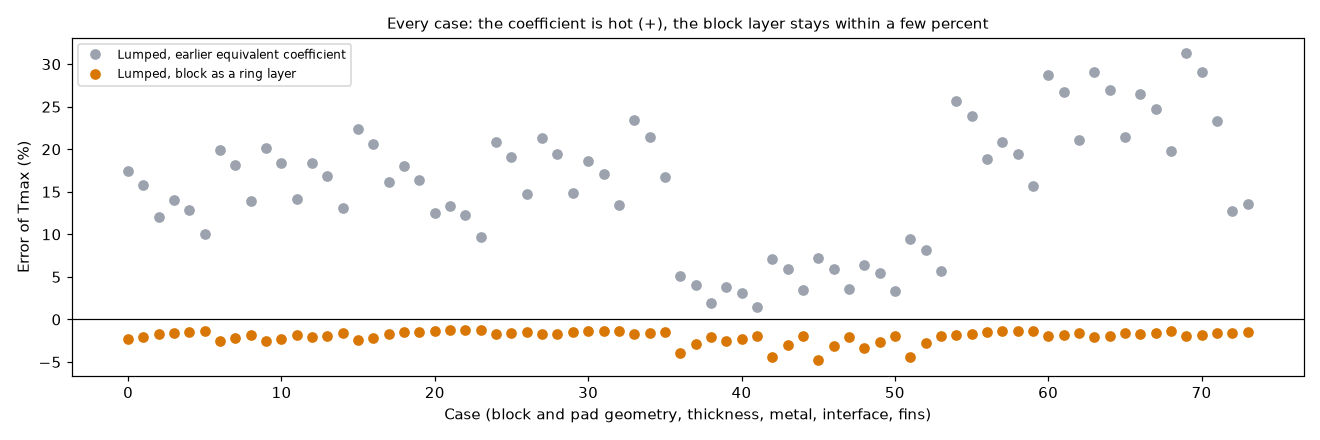
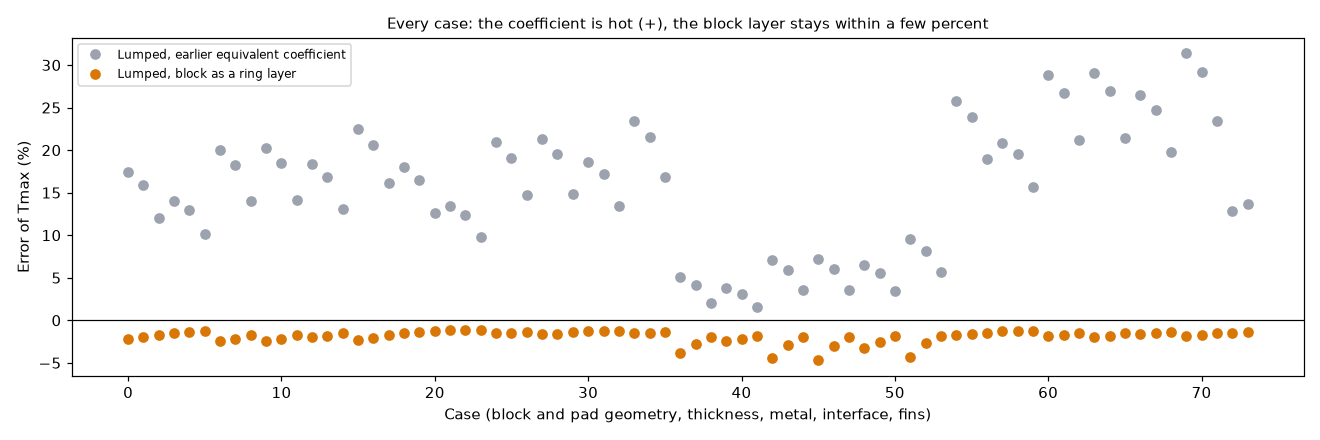
Refresh the research folders after the program changes
Status text of effective-conductivity and stackup (proposals now in the
program), thick-plate check on the 74 block cases, scripts that need more
than 250000 3D unknowns run inside solid3d.size_limit, block-and-fins
figures regenerated; diagram PNGs that differed only by font were restored.

Claude-Session: https://claude.ai/code/session_012GdjNDamebGatEReFh4rLb

diff --git a/research/solid3d-verification/scripts/study_small_pad_convergence.py b/research/solid3d-verification/scripts/study_small_pad_convergence.py
@@ -8,6 +8,9 @@
          Part 2 (the same board with isotropic FR-4 at 0.3 W/mK and no edge loss, so that the independent solver of lib/layered3d.py represents it too): the
          three 3D solvers at 1 and 0.5 mm (0.25 mm needs more memory than a direct solve of the independent solver can use on a laptop). The independent solver puts its maximum on a copper cell centre, the program's 3D solid too; the FEM on a node.
 
+         The 0.5 mm columns with 8 slabs per gap have 320 000 unknowns, above the application's limit of 250 000 (solid3d.MAX_CELLS), so the script runs inside
+         solid3d.size_limit; the limit of the application is not changed.
+
 Usage: .venv/bin/python research/solid3d-verification/scripts/study_small_pad_convergence.py   (from the repository root; needs scikit-fem; about 6 minutes)
 """
 
@@ -91,4 +94,7 @@ def main():
 
 
 if __name__ == "__main__":
-    main()
+    # The 0.5 mm columns with 8 slabs per gap have 320 000 unknowns, above the application's limit (solid3d.MAX_CELLS = 250 000); this offline study
+    # accepts the longer direct solve, so it runs inside size_limit (the limit of the application is restored afterwards).
+    with solid3d.size_limit(500_000):
+        main()

diff --git a/research/models-comparison/scripts/validation_study.py b/research/models-comparison/scripts/validation_study.py
@@ -100,11 +100,12 @@ def main(with_fem=False):
     @brief Print the tables.
     @param with_fem True to include the 3D solid.
     """
-    print("## Scenarios, 1 mm cells (error on the temperature rise against the FVM)\n")
-    print(scenario_table())
-    # The 0.5 mm columns of the 3D solid (about 512 000 unknowns on the 4-layer boards) are above the application's limit (solid3d.MAX_CELLS,
-    # 250 000 since 2026-10-24): the study accepts solves of several minutes and GB, so it raises the limit to the old 2 million here only
+    # The scenario table has a 36-slab stress case (360 000 unknowns at 1 mm) and the 0.5 mm columns of the 3D solid have about 512 000 unknowns on the
+    # 4-layer boards: both are above the application's limit (solid3d.MAX_CELLS, 250 000). The study accepts solves of several minutes and GB, so it
+    # raises the limit to the old 2 million for the whole run, and only here (the limit is restored afterwards)
     with solid3d.size_limit(2_000_000):
+        print("## Scenarios, 1 mm cells (error on the temperature rise against the FVM)\n")
+        print(scenario_table())
         print("\n## Example board against the grid\n")
         print(mesh_table())
         if with_fem:

diff --git a/research/stackup/README.md b/research/stackup/README.md
@@ -1,6 +1,6 @@
 # The stack-up: advanced mode, typical templates and fabricators' tables
 
-Status: **implemented** in the program (see the program's `docs/versions.md` and `docs/validation.md`). Studies: `stackup_outline_study.py` (sections 4.1 and 4.2), `stackup_vendor_check.py` (section 4.3) `study_dielectric_sensitivity.py` (section 4.4) and `study_inner_copper_1oz.py` (section 4.5); figures: `make_figures.py`. Reviewed on 2026-10-24 on the corrected program (section 7).
+Status: **implemented** in the program (see the program's `docs/versions.md` and `docs/validation.md`). Studies: `stackup_outline_study.py` (sections 4.1 and 4.2), `stackup_vendor_check.py` (section 4.3) `study_dielectric_sensitivity.py` (section 4.4) and `study_inner_copper_1oz.py` (section 4.5); figures: `make_figures.py`. Reviewed on 2026-10-24 on the corrected program (section 7). The 1 oz inner-copper variant of sections 4.5 and 4.6 is **implemented** (`Board.template_inner_oz`, 0.5 oz by default, 1 oz with the dielectrics unchanged; `docs/validation.md` section 14.1) and the `sources` text of `stackups.json` no longer says "under 0.5 %" (it gives 0.2 to 2.0 % of the rise with outer copper only and the 5 to 8 K of the inner copper with planes).
 
 ## 1. The questions
 
@@ -197,7 +197,7 @@ Until this review the 6 and 8-layer boards had **no bottom copper** (the script 
 * **Against the published tables (planes on every inner layer, section 4.3)**: the 4-layer template with 35 µm at the same thickness (83.27 °C) is within 0.3 K of PCBWay (82.98) and within 1.6 K of the AdvancedPCB (84.12) and OSH Park (84.83, 17.5 µm inner but 43.2 µm outer) tables; the shipped 15.2 µm template is 7.4 K above PCBWay. For 6 layers the 35 µm template (76.89) is within 0.1 to 0.6 K of the PCBWay blog (76.97) and PCBGOGO (77.52) tables, against 84.80 shipped. For 8 layers the 35 µm template (71.88) is 1.7 to 2.8 K below the three published tables (73.55 to 74.70), whose dielectrics are thinner at the cores, so the shipped 79.72 is 5.0 to 6.2 K above them and the 1 oz variant is 1.7 to 2.8 K below: the published tables fall between the two variants, nearer to 1 oz.
 * **Which tables use which copper** (as recorded in this folder, section 4.3 and `stackups.json`): 0.5 oz (15.2 µm) inner copper is the JLCPCB specification for 4 to 8 layers (the source line of `stackups.json`; the JLC04161H-7628 and JLC06161H-3313 tables, and the independent collection of JLCPCB impedance templates, give 15.2 µm); 1 oz (about 35 µm) inner copper is quoted by PCBWay (four-layer tables and the older 6 and 8-layer blog table), PCBGOGO, Bittele 7pcb (1 oz, 35.6 µm) and AdvancedPCB (1 oz, 34.3 µm); OSH Park gives 17.5 µm inner (0.5 oz) with 43.2 µm outer. JLCPCB does sell a 1 oz inner option (30 um finished): section 4.6.
 * **Which default is better**: the 0.5 oz template is the conservative one (hotter, by 7 to 8 K, 11 to 14 % of the rise, with planes) and is the real JLCPCB standard construction; the 1 oz one is the more common figure in other fabricators' tables and brings the 4 and 6-layer templates within 0.1 to 0.6 K of PCBWay/PCBGOGO (the 8-layer one stays 1.7 to 2.8 K cooler than the published tables). Without inner planes (zones only on the outer layers) the inner copper plays no part and the choice changes nothing. With the inner copper typed by the user, the template only matters until they edit it.
-* **The decision (keep 0.5 oz or switch the inner copper to 35 µm, or ship both templates) is the maintainer's.** The proposed change to `stackups.json` is in `docs/for-the-project-documents.md`, section 7. Not covered: heavy inner copper (2 oz), partial planes (an inner layer is usually a signal layer with 30 to 70 % copper, so the true effect is between the two variants), other boards.
+* **The decision was taken: both are offered.** `Board.template_inner_oz` (Stack-up tab) loads 0.5 oz (15.2 µm, the default and the JLCPCB standard) or 1 oz (35 µm) inner copper, with every dielectric unchanged (the rule of section 4.6, not the scaled rule measured here); the program's 1 oz numbers with the dielectrics unchanged are the "35 µm, dielectrics unchanged" rows of the table above and `docs/validation.md` section 14.1 (4 to 12 layers: −6.9, −7.5, −7.3, −7.0 and −6.8 K). Not covered: heavy inner copper (2 oz), partial planes (an inner layer is usually a signal layer with 30 to 70 % copper, so the true effect is between the two variants), other boards.
 
 ### 4.6 What fabricators really do with the dielectrics when the inner copper is 1 oz
 
@@ -364,7 +364,7 @@ JLCPCB 1 oz (30 um inner copper) minus the program variants at 30 um, in K
 * **Answer to the question**: real builds do not thin all dielectrics in proportion. The one physical thinning mechanism is the resin filling the etched copper, which affects only the prepreg, in proportion to the etched fraction, and is zero against a full plane. Otherwise fabricators re-pick cores and prepreg from their catalogue for the nominal thickness, so the dielectric total and the board thickness move by a few per cent in either direction (JLCPCB at 1.6 mm: -4 % to +4 %).
 * **The three rules differ little**: at 35 um, scaled against unscaled differ by 0.2 to 0.7 K (0.3 to 1.3 % of the rise), and the Isola-thinned variant is 0.2 to 0.4 K below the unscaled one; at 30 um, scaled against unscaled differ by 0.1 to 0.6 K. The spread among real builds of the same layer count is larger (the 8-layer tables at 35 um span 73.55 to 74.70 degC, and JLCPCB's own 1 oz build is 2.7 K above the unscaled 35 um variant at 8 layers), and the copper thickness is a larger lever than the dielectric rule (30 instead of 35 um raises the temperature by 1.2 to 1.4 K).
 * **Which is closer**: against the 15 builds with 35 um copper the unscaled variant has the smallest mean absolute deviation (0.85 K, against 1.00 K scaled and 0.92 K Isola-thinned); against JLCPCB's real 1 oz build at 30 um it is also closer (mean absolute 0.69 K against 1.00 K scaled). Real builds are on average slightly hotter than any variant (mean +0.1 K unscaled, +0.5 K scaled), because real builds keep or add dielectric where the scaled template removes it (8 layers: 1404 um of dielectric in the JLCPCB build against 1320 um scaled).
-* **Recommendation (the decision is the maintainer's)**: for a 1 oz variant of the templates keep the template's dielectric thicknesses unchanged (no scaling factor) and change only the inner copper. Evidence: it is the closest to the real builds in the mean (0.85 and 0.69 K), it is the simplest, and the only physical thinning (resin fill) is zero under a plane and moves the maximum temperature by 0.2 to 0.4 K for a signal layer with half of its copper left. The cost is a board thicker than nominal by (35 - 15.2) um per inner layer (+0.04 mm for 4 layers up to +0.20 mm for 12 layers, 2.5 % to 8 %, inside the +-10 % tolerance fabricators quote) where real JLCPCB builds stay within -4 % to +4 % at 1.6 mm; the maximum temperature hardly depends on this (scaled against unscaled: 0.2 to 0.7 K). If the maintainer prefers boards at the nominal thickness, the scaled rule is acceptable and costs at most 0.7 K in the cool direction. If the 1 oz variant is meant to represent JLCPCB, the inner copper is 30 um (1.2 to 1.4 K hotter than 35 um).
+* **Recommendation (adopted: `Board.template_inner_oz`, the dielectrics unchanged)**: for a 1 oz variant of the templates keep the template's dielectric thicknesses unchanged (no scaling factor) and change only the inner copper. Evidence: it is the closest to the real builds in the mean (0.85 and 0.69 K), it is the simplest, and the only physical thinning (resin fill) is zero under a plane and moves the maximum temperature by 0.2 to 0.4 K for a signal layer with half of its copper left. The cost is a board thicker than nominal by (35 - 15.2) um per inner layer (+0.04 mm for 4 layers up to +0.20 mm for 12 layers, 2.5 % to 8 %, inside the +-10 % tolerance fabricators quote) where real JLCPCB builds stay within -4 % to +4 % at 1.6 mm; the maximum temperature hardly depends on this (scaled against unscaled: 0.2 to 0.7 K). If the maintainer prefers boards at the nominal thickness, the scaled rule is acceptable and costs at most 0.7 K in the cool direction. If the 1 oz variant is meant to represent JLCPCB, the inner copper is 30 um (1.2 to 1.4 K hotter than 35 um).
 * **Limits**: (a) one board and one heat-source layout, planes on every inner layer; a real inner layer is a signal layer with 30 to 70 % copper, so its result lies between the 0.5 oz and the 1 oz result of the tables, and its prepreg is thinner by the resin fill; (b) the JLCPCB data come from an open repository that says it was generated automatically and not checked by hand, not from the JLCPCB order page; (c) not usable: Eurocircuits (builds are images and a configurator), Sierra Circuits (interactive designer), Wuerth Elektronik BASIC (the layers are in PDFs that were not opened), Multi-CB (nothing found), AdvancedPCB 6 to 10 layers (images), Ventec and laminate datasheets with resin content per 1 oz (no data found), OSH Park (17.5 um inner, not 1 oz); (d) the PCBWay, AdvancedPCB and JLCPCB-help numbers come from WebFetch extractions, the Isola note, the Bittele and PCBGOGO PDFs from extracted text and the JLCPCB layers from the raw JSON; (e) PCBWay's 4-layer page was read for IDs 1 to 76 of 112, and its 6 and 8-layer builds only from the older blog table; (f) no measured board.
 
 ## 5. Limits of this study
@@ -383,7 +383,7 @@ Every study of the folder was re-run on the corrected program (`stackup_outline_
 * **Stale numbers, fixed**: the Lumped column of table A (section 4.1) was from before the minimum ring width of the corrected program; it is 0.9 to 1.1 points lower on every row (for example -2.1 -> -3.2 % on the plain board). FVM, FDM, 3D solid and Analytic columns and tables B and C reproduce to the digit.
 * **Numbers no script printed, now printed**: the board without vias of section 4.2 (93.4 K, +3.3 / -2.3 %: reproduced) and the three OSH Park variants of section 4.3 (100.55 and 94.08 reproduced; 93.65 is the 93.64 of the table).
 * **Claim with a narrower scope than stated**: "the dielectric conductivity and thickness move the temperature by about 1 %, the copper weight by 5 %" is true on the 4-layer board with vias it was measured on, and checked against an independent solver here; it is 2 to 3 % without vias and 6 to 9 % on a one-layer board with a pad, and the "5 %" is a ±15 % spread of the finished copper, not a copper weight (section 4.4).
-* **Template provenance**: only the 4-layer template comes from a fabricator's table; the others are constructed (as `stackups.json` says). The `sources` list of `stackups.json` says the published tables differ "by under 0.5 %"; the tables of section 4.3 give up to 2.0 % with outer copper only and up to 13 % with inner planes (8.4 K of a 65 K rise, the inner copper weight): the sentence belongs to the program and is left for the maintainer (`docs/for-the-project-documents.md`).
+* **Template provenance**: only the 4-layer template comes from a fabricator's table; the others are constructed (as `stackups.json` says). The `sources` list of `stackups.json` used to say the published tables differ "by under 0.5 %"; the tables of section 4.3 give up to 2.0 % with outer copper only and up to 13 % with inner planes (8.4 K of a 65 K rise, the inner copper weight). The program's text now says 0.2 to 2.0 % of the rise with outer copper only and 5 to 8 K with inner planes, so the sentence is corrected there.
 * **Checked and right**: the exact 1D series-circuit checks (in `tests/test_stackup.py`), the advanced-equals-simple check (0.1 K), the outline table B, the sensitivity table C; the advanced-mode code (`Board.slab_thicknesses`, `gap_properties`, `layer_laminate`) against its docstrings.
 * **Stale run times, fixed**: the outline study takes about 2 minutes (not 10 seconds), the vendor check about 15 seconds.
 * **Figures**: `fig_01` redrawn with the corrected rows (its title range 0.1 to 1.5 °C), `fig_02` with the new Lumped column; `fig_04` and `fig_05` texts corrected (the scope of the 1 % claim, 0.2 to 2.0 %).

diff --git a/research/effective-conductivity/INTEGRATION.md b/research/effective-conductivity/INTEGRATION.md
@@ -1,8 +1,12 @@
 # What could enter the program from this investigation (the investigation is closed)
 
-Nothing here is needed for the program to be right on the boards it is made for: the five models agree with an independent 3D solver on a Cu / FR4 / Cu coupon (FVM, 3D solid and Analytic within 0.2 %, FDM within 1.2 %, Lumped within 0.3 %) and the published cases are reproduced. Three optional proposals remain (sections 1, 2 and 4; section 3 is adopted, and the problem of section 5 is corrected in the program in another form); none of the three is implemented, and each one needs the maintainer's decision and a `fix/` or `feature/` branch off `develop` with the whole battery.
+Nothing here was needed for the program to be right on the boards it is made for: the five models agree with an independent 3D solver on a Cu / FR4 / Cu coupon (FVM, 3D solid and Analytic within 0.2 %, FDM within 1.2 %, Lumped within 0.3 %) and the published cases are reproduced. Three optional proposals (sections 1, 2 and 4) have since been **adopted on `develop`** (branch `feature/effective-conductivity-adoption`, `docs/validation.md` section 22); section 3 is adopted too, and the problem of section 5 is corrected in the program in another form. Nothing is left to implement from this folder; the sections below keep the proposals as they were measured and say where each one lives.
 
-## 1. An input check for a thick, poorly conducting plate (small)
+## 1. An input check for a thick, poorly conducting plate (adopted)
+
+**Status: implemented** as `checks.check_thick_plates` (`pcbthermal/checks.py`), tested in `tests/test_thick_plate.py`, documented in `docs/validation.md` section 22. The text below is the proposal; the differences of the version in the program are in the next paragraph.
+
+**What the program does differently from the proposal.** The proposal took `q''` from the power of the heater over a pad or footprint. The review of the adoption measured the flux that **really enters the block** in the FVM solution and found it is 8 to 22 % of the footprint flux on the 74 metal-block cases of `research/block-and-fins`, and only 1 to 3 % under a 2 or 3 mm part (a block under the board is fed through the laminate and the copper, which spread the heat). The footprint flux fired on ordinary designs (a 3 x 3 mm, 2 W part over a 3 mm steel block: 9.5 % of the rise), so the check takes, for a block, the largest flux into the block under the footprint from the FVM or FDM result (a quiet auxiliary FVM run with a cell of at least 2 mm when only the Lumped, Analytic or 3D solid ran) and keeps the footprint flux for the copper layer of the part. Criterion over the 74 block cases (2 mm cells): median 0.07 %, maximum 0.34 %, none above 5 %, against 0.04 / 0.42 % for the pad flux of this research and 0.50 / 1.78 % for the footprint flux. The research's pad flux at a rise of 90 K is not conservative (the peak flux into the block is 1.6 times the pad mean at the median). Against the 3D solid the bound with the flux into the block is above the real effect in the seven cases of `docs/validation.md` section 22 (by 2 to 10 times); three of them warn.
 
 **Problem.** The layered models keep one temperature per layer, the mean through its thickness. For a plate of thickness `t` and conductivity `k` under a source of flux `q''` the surface under the source is hotter than that node by at most `q'' t / (2 k)` (README 4.6; less when the heat spreads sideways): measured 1.6 % of the rise for 10 mm of `k` 50 (bound 2.25 %), 8 to 9 % for 10 mm of `k` 10 (bound 14 to 16 %), against 0.0001 K for 35 um of copper. The program has no layer of that kind among the copper layers, but it does have heatsink blocks of 1 to 6 mm and the user can type any conductivity.
 
@@ -10,11 +14,13 @@ Nothing here is needed for the program to be right on the boards it is made for:
 
 **What does not change.** The models, the results and the interface.
 
-**Measured impact** (`README.md` 4.8 C): on the 74 metal-block cases of the program the criterion is at most 0.42 % (a 3 mm steel block), median 0.04 %, so the check would **never fire on the cases the program is built for**; it is a safety net for a thick, poorly conducting layer typed by the user.
+**Measured impact** (`README.md` 4.8 C; this is the research's criterion with the pad flux, the program's flux into the block gives 0.34 % and 0.07 %): on the 74 metal-block cases of the program the criterion is at most 0.42 % (a 3 mm steel block), median 0.04 %, so the check **never fires on the cases the program is built for**; it is a safety net for a thick, poorly conducting layer typed by the user.
 
 **Risk.** A false alarm on a thick copper block (the criterion is then tiny, so none); the criterion is a bound, not a correction, and must not be added to the result.
 
-## 2. The laminar form of Churchill and Chu as an option (small, a decision)
+## 2. The laminar form of Churchill and Chu as an option (adopted as an option, default unchanged)
+
+**Status: implemented** as `Board.natural_form` (`pcbthermal/convection.py`, `docs/validation.md` section 22, `docs/theory.md` section 8). The default stays `general`, which reproduces the earlier results bit for bit; `laminar` is the option. On the example board turned vertical (computed h, FVM, 1 mm cells) the maximum is 86.72 C with the general form and 86.50 C with the laminar one (-0.22 K, -0.4 % of the rise), inside the -0.7 to +0.2 % measured here; the option reproduces every row of the table of `README.md` 4.8 B to 0.01 K. Above Ra 1e9 the laminar form warns. Churchill and Chu (1975) itself is still not opened, which is why the default was not changed; the proposal text follows.
 
 **Problem.** The program uses the general correlation for a vertical board over the whole range. The same authors' laminar form (for Ra below 1e9, recommended by textbooks for laminar flow) differs from it by +7 % at Ra 1e4, +2 % at 1e6, -5 % at 1e7 and -25 % at 1e9 (README 4.7); for a board of 50 to 200 mm at 10 to 80 K the coefficient differs by +6.5 % to -10 %.
 
@@ -29,9 +35,9 @@ Adopted on the branch `fix/model-corrections` (merged into `develop`): `docs/the
 
 The documents say that the plate model is `+4.5 %` from Seri Lee's centre value; that was a 24 mm source (`round()` rounds halves to even, so on 1 mm cells the edges 37.5 and 62.5 mm went to 38 and 62). With the 25 mm source the model is within +0.6 %, -0.8 % and -4.6 % of the article at the centre, the edge and the corner (`README.md` 4.8 A). The text to put in the documents is in `docs/for-the-project-documents.md`.
 
-## 4. The independent solver as a reference in the program's tests (medium)
+## 4. The independent solver as a reference in the program's tests (adopted)
 
-`lib/layered3d.py` (about 140 lines, SciPy only, with its own tests against a series circuit, two energy balances, a uniform layer and three published numbers) could become a test helper in `tests/` for the comparison of the layered models with a 3D solution on a laminate, next to the finite-element script that needs scikit-fem. This would need its own review for the program's documentation rules.
+**Status: implemented** as `tests/helpers/layered3d.py` with the comparison `tests/test_layered_vs_3d.py` (`docs/validation.md` section 22: Cu / FR4 / Cu coupon and one-layer board, five models, 1 mm cells). `lib/layered3d.py` here (about 140 lines, SciPy only, with its own tests against a series circuit, two energy balances, a uniform layer and three published numbers) stays as the record of the investigation; the copy in `tests/helpers/` is the one the program's tests use.
 
 ## 5. The laminate under the bottom film of a one-layer board (superseded: corrected in the program in another form)
 

diff --git a/research/effective-conductivity/README.md b/research/effective-conductivity/README.md
@@ -1,6 +1,6 @@
 # Effective conductivity, spreading resistance and the layered idealisation: published test cases reproduced
 
-Status: **closed**, reviewed by the reviewer agent on 2026-10-24 (section 8; every study re-run on the program at `0ea5f07`). The review of this folder also read the models of the program and found two defects there (a time constant on boards with an outline, the 3D solid on a one-layer board); both are corrected in the program (`docs/validation.md` section 20) and section 4.11 checks the second against the independent solver. Its one-layer check also led to the laminate nodes of one-layer boards, now in the program in a different form from the candidate of `INTEGRATION.md` 5 (`pcbthermal/laminate.py`, `docs/validation.md` section 21). No other change to the program is required; the optional proposals, with their measured impact, and the reference solver are in `INTEGRATION.md`, the corrections and text for the project documents in `docs/for-the-project-documents.md`. What stays open is listed in section 6. Studies: `study_culham_1998.py`, `study_lee_spreading.py`, `study_program_vs_coupon.py`, `study_muzychka_2003.py`, `study_natural_convection.py`, `study_biot_definitions.py`, `study_corrections_impact.py`, `study_channel_correlations.py`, `study_one_layer_independent.py`; solver: `lib/layered3d.py`; figures: `make_figures.py` (data) and `make_diagrams.py` (schematics), one numbering.
+Status: **closed**, reviewed by the reviewer agent on 2026-10-24 (section 8; every study re-run on the program at `0ea5f07`). The review of this folder also read the models of the program and found two defects there (a time constant on boards with an outline, the 3D solid on a one-layer board); both are corrected in the program (`docs/validation.md` section 20) and section 4.11 checks the second against the independent solver. Its one-layer check also led to the laminate nodes of one-layer boards, now in the program in a different form from the candidate of `INTEGRATION.md` 5 (`pcbthermal/laminate.py`, `docs/validation.md` section 21). The three optional proposals (thick-plate warning, `Board.natural_form`, the reference solver as a test helper) were adopted afterwards on `develop` (`docs/validation.md` section 22); their measured impact and where each one lives are in `INTEGRATION.md`, the corrections and text for the project documents in `docs/for-the-project-documents.md`. What stays open is listed in section 6. Studies: `study_culham_1998.py`, `study_lee_spreading.py`, `study_program_vs_coupon.py`, `study_muzychka_2003.py`, `study_natural_convection.py`, `study_biot_definitions.py`, `study_corrections_impact.py`, `study_channel_correlations.py`, `study_one_layer_independent.py`; solver: `lib/layered3d.py`; figures: `make_figures.py` (data) and `make_diagrams.py` (schematics), one numbering.
 
 ## 1. The questions
 
@@ -38,7 +38,7 @@ Status: **closed**, reviewed by the reviewer agent on 2026-10-24 (section 8; eve
 | `scripts/study_one_layer_independent.py` | A one-layer board (full copper at three thicknesses, and a 20 mm pad) in the independent solver, the 3D solid and the FVM before and after the corrections, and the FDM, Lumped and Analytic as they are now (about 1 minute). |
 | `scripts/make_figures.py`, `scripts/make_diagrams.py` | The data figures (read `out/*.json`, written by the studies) and the schematics. |
 | `tests/test_layered3d.py` | The solver against a series circuit, two exact energy balances (with and without a film under the source), a uniform layer and three published numbers; the source alignment check; a conductivity map (uniform map = uniform slab, energy balance with a pattern); the plateau bound; the gradient below its bound. |
-| `INTEGRATION.md`, `docs/for-the-project-documents.md` | Optional proposals; corrections and text for the project documents. |
+| `INTEGRATION.md`, `docs/for-the-project-documents.md` | Where each proposal lives in the program (all adopted) and its measured impact; corrections and text for the project documents. |
 
 ## 4. How to run, and the results
 
@@ -284,7 +284,7 @@ The effect on the maximum temperature is **-0.7 to +0.2 % of the rise** (-0.43 t
 C. Thick-plate criterion q'' t / (2 k) / rise over the 74 metal-block cases: maximum 0.42 %, median 0.04 %, cases above 5 %: 0
    largest: pad 20x20 in block 80x60, 3 mm steel, R''=1 Kcm²/W (0.42 %)
 
-The check would **never fire on the cases the program is built for** (largest 0.42 %, a 3 mm steel block); it is a safety net for a thick, poorly conducting layer typed by the user.
+The check would **never fire on the cases the program is built for** (largest 0.42 %, a 3 mm steel block); it is a safety net for a thick, poorly conducting layer typed by the user. In the program (`checks.check_thick_plates`) the flux is the one that really enters the block, taken from the solution (median 0.07 %, maximum 0.34 % over the same 74 cases, none above 5 %), because the pad flux used here is not conservative (the peak flux into the block is 1.6 times the pad mean at the median) and the footprint flux fires on ordinary designs (`docs/validation.md` section 22).
 
 ![The corrections and proposals with their measured impact](figures/fig_15_corrections_map.png)
 
@@ -371,7 +371,7 @@ The independent solver checks the first. `lib/layered3d.py` now takes a conducti
 
 ## 5. What this means for the program
 
-The models need no change for the boards they are made for, beyond the two defects of 4.11 and the laminate of one-layer boards (all corrected in `0ea5f07`). A one-layer board with little copper is still where the layered models are farthest from a 3D solution (with a 20 mm pad: FVM -2.5 %, FDM -7.4 %, Lumped -14.7 %, Analytic -28.8 %, 4.11). The optional proposals (an input check for a thick, poorly conducting plate; the laminar form of Churchill and Chu as an option; the solver as a test helper) and what should stay out (an effective conductivity of the stack) are in `INTEGRATION.md`; the corrections and text for the project documents are in `docs/for-the-project-documents.md`.
+The models need no change for the boards they are made for, beyond the two defects of 4.11 and the laminate of one-layer boards (all corrected in `0ea5f07`). A one-layer board with little copper is still where the layered models are farthest from a 3D solution (with a 20 mm pad: FVM -2.5 %, FDM -7.4 %, Lumped -14.7 %, Analytic -28.8 %, 4.11). The three optional proposals (an input check for a thick, poorly conducting plate: `checks.check_thick_plates`; the laminar form of Churchill and Chu as an option: `Board.natural_form`; the solver as a test helper: `tests/helpers/layered3d.py`) are now in the program, and what should stay out (an effective conductivity of the stack) are in `INTEGRATION.md`; the corrections and text for the project documents are in `docs/for-the-project-documents.md`.
 
 ## 6. Limits
 

diff --git a/research/block-and-fins/README.md b/research/block-and-fins/README.md
@@ -20,8 +20,9 @@ Status: **implemented** in the program (see the program's `docs/versions.md` and
 ## 2. Findings in short
 
 * The fin formula (`blocks.fin_ratio`) agrees with a 2D conduction solution of one fin to within 0.08 % in 24 cases (four metals, three coefficients, two fin sizes, efficiencies 0.27 to 0.997). What is **not** validated is the coefficient itself on a real fin array (channel effect between fins).
-* An equivalent coefficient (with a contact area and an annular fin) is 9 to 11 % off on average in the Lumped and Analytic models; the block as one more layer of the ring network (Lumped) and as a Schur-complement tile graph in the Green-function correction (Analytic) is 2.0 % and 1.1 % off on average (maxima 4.8 % and 4.3 %), on 74 cases.
+* An equivalent coefficient (with a contact area and an annular fin) is 9 to 11 % off on average in the Lumped and Analytic models; the block as one more layer of the ring network (Lumped) and as a Schur-complement tile graph in the Green-function correction (Analytic) is 1.9 % and 1.1 % off on average (maxima 4.7 % and 4.3 %), on 74 cases.
 * The FVM, FDM and 3D solid agree within 1 % on a finned block, because they use the same fin ratio.
+* The temperature drop across the block's own thickness (the layered models keep one node per layer) is checked by the program's thick-plate warning (`checks.check_thick_plates`, `docs/validation.md` section 22) with the flux that really enters the block: over these same 74 cases it is 0.07 % of the rise at the median and 0.34 % at most, none above the 5 % limit, so the warning does not fire on them (numbers taken from that section; this folder's scripts were not changed to reproduce them).
 
 ## 3. Folder layout
 
@@ -68,12 +69,12 @@ All 24 cases of the script (four metals, h = 10, 30, 100 W/m²K, two fin sizes, 
 
 | Approach | Lumped mean / max | Analytic mean / max |
 | :-- | --: | --: |
-| earlier equivalent coefficient (isothermal block over the whole polygon) | 15.5 / 31.3 | 17.3 / 31.5 |
-| equivalent coefficient on the copper contact area plus an annular fin for the block outside it | 8.8 / 18.7 | 11.0 / 19.7 |
-| **implemented**: Lumped: block layer in the ring network; Analytic: tile graph (Schur complement) in the Green-function correction | **2.0 / 4.8** | **1.1 / 4.3** |
+| earlier equivalent coefficient (isothermal block over the whole polygon) | 15.6 / 31.4 | 17.3 / 31.5 |
+| equivalent coefficient on the copper contact area plus an annular fin for the block outside it | 8.8 / 18.8 | 11.0 / 19.7 |
+| **implemented**: Lumped: block layer in the ring network; Analytic: tile graph (Schur complement) in the Green-function correction | **1.9 / 4.7** | **1.1 / 4.3** |
 
 * Why the coefficient approaches fail: they are too hot, and more so with a thicker or better-conducting block (+13 % for 1 mm, +19 % for 6 mm of aluminium on the 30 × 30 pad): the block spreads the heat of the centre of the pad to the whole pad, which a uniform coefficient cannot do. The implemented versions keep the lateral conduction `k t` of the block.
-* The finned blocks are at −1.5 % (Lumped) and 0.0 % (Analytic). Typical cases: 30 × 30 pad in a 60 × 60 block, 3 mm of aluminium, 5 K·cm²/W: FVM rise 90.0 K, Lumped −2.2 %, Analytic −1.0 %.
+* The finned blocks are at −1.5 % (Lumped) and −0.1 % (Analytic). Typical cases: 30 × 30 pad in a 60 × 60 block, 3 mm of aluminium, 5 K·cm²/W: FVM rise 90.0 K, Lumped −2.2 %, Analytic −1.1 %.
 * Limits: steady state only (the capacity of the block is in the ring sums but no transient with a block was tested, and the time simulation refuses it); a rectangular block and rectangular copper pads were tested, a block over scattered copper not; the Analytic keeps its own weak spots (copper that is far from uniform around the heater).
 * Sources: static condensation / Schur complement as used by finite-element codes (MFEM documentation, https://docs.mfem.org/4.6/staticcond_8hpp_source.html) and Kron reduction of a network (https://arxiv.org/pdf/2204.05554); the annular-fin efficiency tested in the coefficient approach (Incropera and DeWitt; https://scipython.com/books/book2/chapter-8-scipy/problems/heat-dissipation-of-an-annular-fin-heatsink/); spreading resistance of a heat sink base plate, Lee, Song, Au and Moran (1995), https://www.electronics-cooling.com/1998/01/calculating-spreading-resistance-in-heat-sinks/ (its formulas could not be read and were not used); hybrid analytical models of the PCB, Zhang and Chen, PLOS ONE (2024), https://journals.plos.org/plosone/article?id=10.1371%2Fjournal.pone.0310237.
 
@@ -84,6 +85,8 @@ All 24 cases of the script (four metals, h = 10, 30, 100 W/m²K, two fin sizes, 
 ![Error of every case](figures/fig_03_block_error_per_case.png)
 
 *Figure 3: `figures/fig_03_block_error_per_case.png`.*
+
+The numbers of this table were re-run on the current program (`develop` at its latest commit; the cause was not traced, the errors against the FVM moved by up to 0.1 point, so the earlier 15.5 / 31.3, 8.8 / 18.7 and 2.0 / 4.8 are now 15.6 / 31.4, 8.8 / 18.8 and 1.9 / 4.7; the Analytic columns are unchanged). `docs/validation.md` section 17 still quotes the earlier values.
 
 ### 4.3 A finned block in every model
 
@@ -97,6 +100,10 @@ All 24 cases of the script (four metals, h = 10, 30, 100 W/m²K, two fin sizes, 
 | fins 30 × 1.5 mm, pitch 8 mm | 8.4 | 53.2 | 53.2 | 53.6 | 62.4 | 59.3 |
 
 The FVM, the FDM and the 3D solid agree within 1 % on a finned block (the same fin ratio in all three); the lumped and analytic models were 10 to 13 % high on a board with a block (they replaced it by an equivalent coefficient) and now they have the block as a ring layer and as a tile graph, 1 to 2 % off on average (section 17; section 15 for the fins).
+
+### 4.4 The thick-plate check on the same 74 cases
+
+The program warns when `q'' t / (2 k)` over the rise of the heater exceeds 5 % (a thick, poorly conducting plate under a source: the surface under the source is hotter than the node of the layered models by up to that amount). On these 74 cases (2 mm cells, FVM rise) the criterion with the flux that really enters the block, read from the solution, is **median 0.07 %, maximum 0.34 %**, no case above 5 % (`docs/validation.md` section 22; FVM 1 mm and FDM 2 mm give the same 0.07 / 0.34 %). The flux over the pad at a rise of 90 K, used in `research/effective-conductivity`, gives 0.04 / 0.42 %, and the power over the footprint 0.50 / 1.78 %. The flux that enters the block is 8 to 22 % of the footprint flux on these cases (1 to 3 % under a 2 or 3 mm part), because a block under the board is fed through the laminate and the copper, which spread the heat. These numbers come from the program's own section; this folder's scripts do not compute them.
 
 ## 5. Limits of this study
 

diff --git a/research/stackup/docs/for-the-project-documents.md b/research/stackup/docs/for-the-project-documents.md
@@ -41,9 +41,13 @@ Add after the definitions of the layer equation:
 
 ## 6. `pcbthermal/data/stackups.json`, `sources`
 
+**Adopted**: the program's `sources` text already says 0.2 to 2.0 % of the rise with outer copper only and the inner copper effect with planes; the suggestion below is kept as the record.
+
 The fifth source says the JLCPCB and PCBWay tables give a maximum temperature "under 0.5 %" from the templates. With the corrected comparison it is up to 2.0 % of the rise with outer copper only (the dielectric split) and up to 13 % with a plane on every inner layer (because the templates use 0.5 oz inner copper and most tables 1 oz). Suggested text: "... were compared with these templates: with outer copper only the maximum temperature of the example board moves by 0.2 to 2.0 % of the rise; with inner planes the 0.5 oz inner copper of the templates is 5 to 8 K hotter than 1 oz (research/stackup/README.md section 4.3)". This is program data: a `fix/` branch, not this one.
 
 ## 7. `pcbthermal/data/stackups.json`, inner copper of the templates (study of 2026-10-24, README section 4.5)
+
+**Adopted in another form**: both weights are offered, `Board.template_inner_oz` = 0.5 (default, JLCPCB standard, the 4-layer entry stays that table) or 1 (35 µm inner copper, dielectrics unchanged), `docs/validation.md` section 14.1. The edit list below (switching the file to 35 µm, or scaling the dielectrics) was not done; it is kept as the record of the options.
 
 Measured on the example board with a full plane on every inner layer (FVM 2 mm; the 3D solid agrees within 0.06 K on 4 and 6 layers): inner copper of 35 µm instead of 15.2 µm lowers the maximum temperature by 7.1 K (4 layers, 90.40 -> 83.27 °C), 7.9 K (6 layers, 84.80 -> 76.89), 7.8 K (8 layers, 79.72 -> 71.88), 7.6 K (10 layers, 78.76 -> 71.15) and 7.5 K (12 layers, 78.22 -> 70.77), when the dielectrics are thinned to keep the total thickness (11 to 14 % of the rise); with unchanged dielectrics the numbers are 0.2 to 0.7 K smaller. A true 0.5 oz base foil (17.5 µm) changes only 1.1 to 1.3 K. The 2-layer template has no inner copper.
 
@@ -58,6 +62,8 @@ If the maintainer chooses to switch (a `fix/` branch, not this one), edit in `st
 The choice (keep 0.5 oz, switch to 1 oz, or offer both) belongs to the maintainer: 0.5 oz is the conservative (hotter) end and the JLCPCB standard; 1 oz is the figure of most other published tables and agrees with the PCBWay and PCBGOGO 4 and 6-layer tables within 0.1 to 0.6 K.
 
 ## 8. `pcbthermal/data/stackups.json`, how the 1 oz variant should treat the dielectrics (README section 4.6)
+
+**Adopted**: the program's 1 oz variant leaves every dielectric thickness unchanged, as recommended here; it uses 35 µm, not JLCPCB's 30 µm (`docs/validation.md` section 14.1).
 
 Real 1 oz builds (JLCPCB's own template data, Bittele, PCBWay, PCBGOGO, AdvancedPCB) do not scale the dielectrics: a fabricator re-picks cores and prepreg for the nominal thickness (JLCPCB 1.6 mm: board total -4 % to +4 % against its 0.5 oz build, dielectric total 0.85 to 1.08 times). The one physical thinning is the resin that fills etched copper (Isola rule, confirmed by PCBWay's numbers exactly): it affects only the prepreg, in proportion to the etched fraction, and is zero against a full plane. Against 15 published 1 oz builds the variant with the dielectrics left unchanged is the closest (mean absolute deviation 0.85 K, against 1.00 K for the scaled variant), and against JLCPCB's real 1 oz build 0.69 K against 1.00 K; the three rules differ among themselves by 0.2 to 0.7 K, less than the spread between real builds.
 

diff --git a/research/INDEX.md b/research/INDEX.md
@@ -9,7 +9,7 @@ This file is the index; `research/README.md` holds the layout rules, the rules f
 | Import 3 | `gerber-nets/` | open, early, **lives on the research branch (not in `develop`)**; start with `gerber-nets/CONCLUSIONS.md` | Nets with voltage and current: the Joule heat of a net, tracks at any angle, sources, sinks and links between pieces of one net (design and prototype). |
 | Parts | `component-heatsink/` | implemented in part (2.3.0, 2.4.0); junction node and heatsink scenarios open | The part, its top path, interfaces, heatsinks and the metal block. |
 | Tools | `power-calculator/` | implemented (2.4.0) | The watts of a part from a measured temperature: validation, sensitivity, how to reduce the error. |
-| Theory | `effective-conductivity/` | closed; no change to the program required; optional proposals with their measured impact | Published test cases (effective conductivity of a laminate, spreading resistance of a source on a plate) reproduced with an independent 3D solver; the five models on the same boards; where one temperature node through the thickness stops being valid; the natural convection forms; the channel correlations between vertical plates. |
+| Theory | `effective-conductivity/` | closed; the optional proposals are adopted on `develop` (thick-plate warning, `Board.natural_form`, reference solver in the tests) | Published test cases (effective conductivity of a laminate, spreading resistance of a source on a plate) reproduced with an independent 3D solver; the five models on the same boards; where one temperature node through the thickness stops being valid; the natural convection forms; the channel correlations between vertical plates. |
 | Theory | `theory/` | open, **lives on the research branch** | What each model, equation and planned method is: one file per topic with a picture, the formulation, limits, tests, paths to the investigations and sources; one bibliography with the reading status of every source. |
 | Models | `models-comparison/` | implemented (repeated at each change) | The five models against the FVM on 19 scenarios, the grids, the solvers and the time results. |
 | Models | `solid3d-verification/` | implemented (2.3.0, 2.4.0; one-layer laminate corrected after 2.4.1) | Does the 3D solid reproduce an exact solution; how far are the layered models from a 3D solution. |

diff --git a/research/effective-conductivity/docs/for-the-project-documents.md b/research/effective-conductivity/docs/for-the-project-documents.md
@@ -21,6 +21,6 @@ No document of the project states that an averaged conductivity of the stack is 
 
 ## Text for `docs/roadmap.md`
 
-* Input check for a thick, poorly conducting plate under a source (`research/effective-conductivity/INTEGRATION.md` 1).
-* Natural convection of a vertical board: decide between the general and the laminar form of Churchill and Chu after reading the paper (`INTEGRATION.md` 2).
+* Done (moved to the implemented list): the thick-plate warning (`checks.check_thick_plates`, with the flux that enters the block), `Board.natural_form`, the reference solver in `tests/helpers/layered3d.py`.
+* Natural convection of a vertical board: the general form stays the default until Churchill and Chu (1975) is read (`INTEGRATION.md` 2).
 * Papers of the Waterloo archive still to read as images: the Elenbaas limit for a parallel-plate channel (mhtl91-11), the general laminar plate expression of Yovanovich (mhtl93-4), packaging density and effective conductivity (mhtl95-4).
